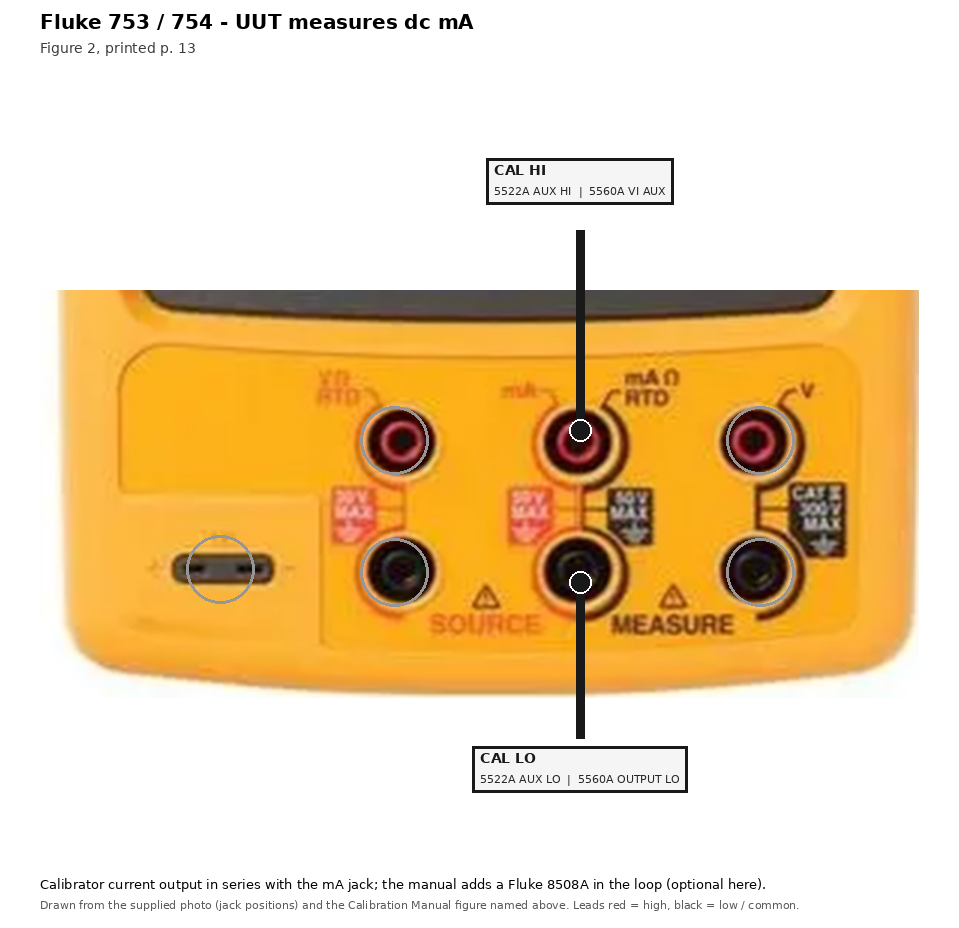
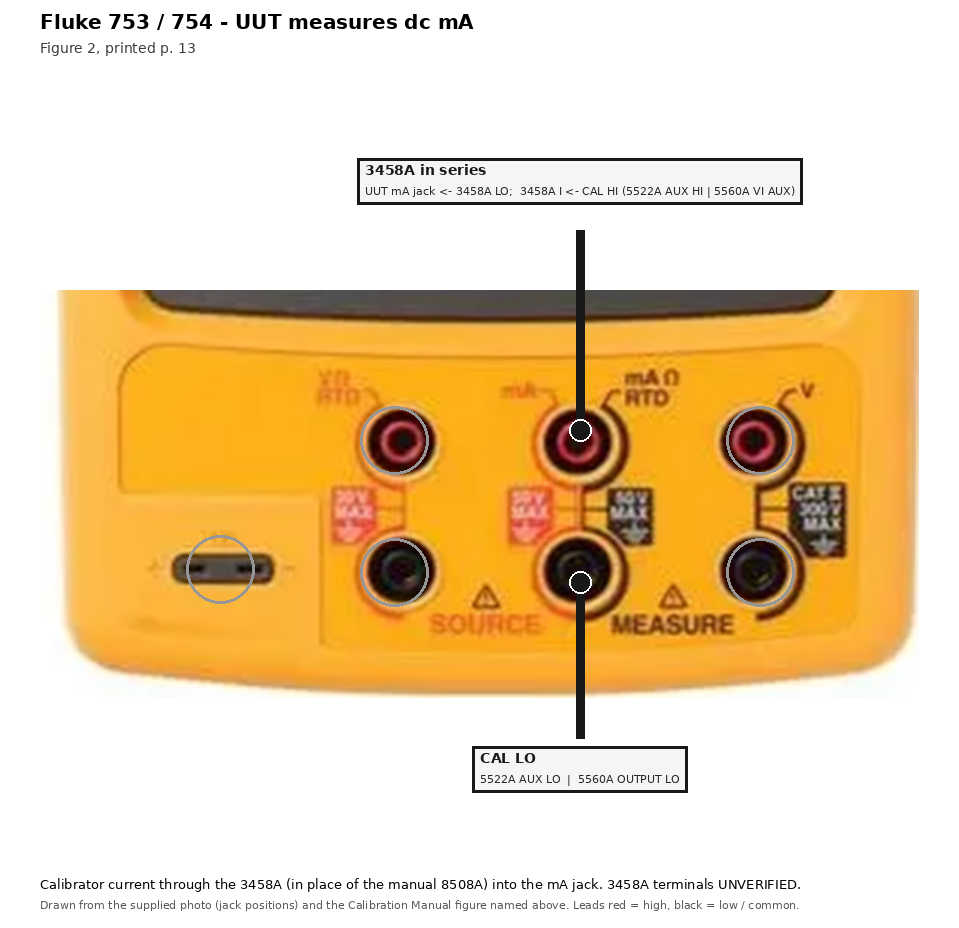
753/754: dc mA points with the 3458A in series (typed, recorded, uncertainty from its input sheet), series drawing, tests
Claude-Session: https://claude.ai/code/session_01VmnunfVAogpKCCPBXbw9cZ

Changed region(s): [[0.3629, 0.1562, 0.8467, 0.2188], [0.1512, 0.9375, 0.8165, 0.9688]]

diff --git a/fluke_753_754.py b/fluke_753_754.py
@@ -40,6 +40,17 @@ def is_source(p):
     return p.get('direction') == 'source'
 
 
+def is_series(p):
+    """True for a DC mA MEASURE point (Table 5): the manual puts a reference meter in series with the calibrator and the UUT (an 8508A); the owner's choice is the Keysight 3458A
+    in series, its reading TYPED (no driver).  The point's uncertainty is then that of the series meter (its 'input' sheet), not the calibrator's alone."""
+    return bool(p.get('series_ref')) and not is_source(p)
+
+
+def uses_input_sheet(p):
+    """True when a measuring standard (3458A / 34461A / 34465A, 'input' sheet) gives the point's uncertainty: a UUT OUTPUT point, or a series-metered dc mA point."""
+    return is_source(p) or is_series(p)
+
+
 def is_rtd(p):
     return bool(p.get('rtd')) and not is_source(p)
 
@@ -47,7 +58,7 @@ def is_rtd(p):
 def unc_direction(p):
     """Direction of the standard-sheet row that gives the point's uncertainty: a UUT OUTPUT point is measured by the multimeter standard (its 'input' row);
     a UUT input point is sourced by the calibrator (its 'output' row).  None for a point with no uncertainty (HART)."""
-    if is_source(p):
+    if uses_input_sheet(p):
         return 'input'
     return 'output' if p.get('applied') else None
 
@@ -65,9 +76,21 @@ def have_standard(model):
 
 def source_request(p):
     """(kind, nominal, unit, frequency) the measuring standard reads at a source point (the value the UUT is set to output)."""
-    u = p['uut']
+    u = p.get('uut') or p['series_ref']
     unit = {'DCV': 'V', 'DCI': 'A', 'OHM': 'ohm', 'FREQ': 'Hz'}[u['kind']]
     return ('OHM4' if u['kind'] == 'OHM' else u['kind']), float(u['value']), unit, (u.get('frequency') if u['kind'] == 'FREQ' else None)
+
+
+SERIES_ACCEPT = ('Type the reading of the Keysight 3458A in series with the UUT (dc current), in the unit shown.  It is recorded with the point; it is NOT compared with the limits. '
+                 'The limits judge the UUT display, which you type in the next window.')
+
+
+def series_validate(text):
+    """The 3458A reading must be a number (nothing else is checked)."""
+    try:
+        Decimal(str(text).strip().replace(',', ''))
+    except Exception:
+        raise ValueError('Type the 3458A reading as a number.')
 
 
 def freq_budget(p, calibrator):
@@ -101,6 +124,7 @@ class App(handheld_dmm.App):
 
     # ------------------------------------------------------------------ the measuring-standard choice (source points)
     def __init__(self, *a, **kw):
+        self.series_read = {}                                     # {point id: the 3458A series reading, as typed}: recorded with the dc mA measure points, never judged (the UUT display is)
         self.unc_choice = {}                                      # {point id: measuring standard model} the owner picked; the default is DEFAULT_UNC_STANDARD
         self._unc_cache = {}
         super().__init__(*a, **kw)
@@ -149,7 +173,7 @@ class App(handheld_dmm.App):
     def tree_menu_extras(self, pid):
         """Right-click entries on a source point: the measuring standard of its uncertainty (the existing per-point 'Uncertainty standard' choice)."""
         p = self.by_id.get(pid) or self.by_id.get(str(pid))
-        if p is None or not is_source(p) or not self.has_uncertainty(p):
+        if p is None or not uses_input_sheet(p) or not self.has_uncertainty(p):
             return []
         if self.demo:
             return [('Uncertainty standard...', lambda: None, False, 'A demo run prints no uncertainty.')]
@@ -167,25 +191,52 @@ class App(handheld_dmm.App):
         d = super().save_fields()
         if self.unc_choice:
             d['unc_choice'] = dict(self.unc_choice)             # recorded with the run: the measuring standard picked for a point's uncertainty
+        if self.series_read:
+            d['series_read'] = dict(self.series_read)           # the typed 3458A-in-series readings of the dc mA measure points
         return d
 
     def load_results(self, data):
         super().load_results(data)
         picked = data.get('unc_choice')
         self.unc_choice = {str(k): v for k, v in picked.items() if isinstance(v, str) and v} if isinstance(picked, dict) else {}
+        ser = data.get('series_read')
+        self.series_read = {str(k): v for k, v in ser.items() if isinstance(v, str)} if isinstance(ser, dict) else {}
+
+    # ------------------------------------------------------------------ the 3458A in series (dc mA measure points)
+    def _ask(self, points, i, p, key):
+        """A dc mA measure point (Table 5) first asks for the reading of the 3458A in series (typed, no driver; recorded, NOT judged), then the usual UUT display window.
+        Pass / fail is exactly the engine's: the UUT display against the printed limits."""
+        if is_series(p) and p.get('test') == 'numeric' and not (self.use_ir and p.get('ir')):
+            r = handheld_dmm.ask_reading(self.root, p, len(self.points), handheld_dmm.output_text(p), self._out_note(p, True), SERIES_ACCEPT, 'numeric',
+                                         unit=p['display_unit'], annunciator=False, validate=series_validate, phase='3458A in series',
+                                         device='3458A IN SERIES', source='CALIBRATOR OUTPUT', **self._fill_series(p))
+            if r['action'] == 'stop':
+                self.stop = True
+                if self.io and not self.manual_cal:
+                    self.io.standby()
+                port.after(self.root, 30, lambda: self._next(points, i + 1, key))
+                return
+            if r['action'] == 'record':
+                self.series_read[str(p['id'])] = handheld_dmm.pad_reading(p, r['text'])
+        super()._ask(points, i, p, key)
+
+    def _fill_series(self, p):
+        if not self.virtual:
+            return {}
+        return dict(demo_fill=lambda: f'{p["nominal"] / p["factor"]:.4f}')
 
     # ------------------------------------------------------------------ the uncertainty of one point
     @staticmethod
     def has_uncertainty(p):
         """Points that should carry an uncertainty: the engine's rule for a UUT input point (a calibrator source), and for a UUT OUTPUT point a numeric reading of a
         DC volts / DC current / resistance / frequency standard (the measuring standard's input sheet).  HART: none."""
-        if is_source(p):
-            return p.get('test') == 'numeric' and not p.get('no_uncertainty') and (p.get('uut') or {}).get('kind') in SOURCE_KINDS
+        if uses_input_sheet(p):
+            return p.get('test') == 'numeric' and not p.get('no_uncertainty') and (p.get('uut') or p.get('series_ref') or {}).get('kind') in SOURCE_KINDS
         return handheld_dmm.App.has_uncertainty(p)
 
     def _budget(self, p):
         """(Budget or None, standard model or None, direction) of point p."""
-        if is_source(p):
+        if uses_input_sheet(p):
             m = self.unc_standard_of(p)
             return self._source_budget(p, m), m, 'input'
         cal = self.calibrator_model()
@@ -203,7 +254,7 @@ class App(handheld_dmm.App):
                     and not p.get('no_uncertainty') and self.calibrator_model())
 
     def _custom(self, p):
-        return p.get('test') == 'numeric' and (is_source(p) or is_rtd(p) or self._freq_from_calibrator(p))
+        return p.get('test') == 'numeric' and (uses_input_sheet(p) or is_rtd(p) or self._freq_from_calibrator(p))
 
     def uncertainty_text(self, p):
         import uncertainty
@@ -226,6 +277,9 @@ class App(handheld_dmm.App):
         row = super().certificate_row(dict(p, no_uncertainty=True), r)              # the engine's own row, with its own uncertainty step skipped
         row['Description'] = report_pdf.ascii_unit(row.get('Description', ''))
         row['Uncertainty'] = self.uncertainty_text(p) if self.has_uncertainty(p) else ''
+        ref = self.series_read.get(str(p['id']))
+        if is_series(p) and ref:
+            row['Description'] += f' (3458A in series read {ref} {p["display_unit"]})'
         return row
 
     def certificate_fields(self, p):
@@ -274,10 +328,10 @@ class App(handheld_dmm.App):
         note = super().source_note()
         used = {}
         for p in self.points:
-            if is_source(p) and self.has_uncertainty(p) and (str(p['id']) in self.found or str(p['id']) in self.left):
+            if uses_input_sheet(p) and self.has_uncertainty(p) and (str(p['id']) in self.found or str(p['id']) in self.left):
                 used[self.unc_standard_of(p)] = used.get(self.unc_standard_of(p), 0) + 1
         if used:
-            note = ' '.join(x for x in (note, 'UUT output points (read on an external instrument and typed in): the uncertainty is that of the measuring standard named here, its input-direction '
+            note = ' '.join(x for x in (note, 'UUT output points (read on an external instrument and typed in) and the dc mA measure points (3458A in series, its reading typed in): the uncertainty is that of the measuring standard named here, its input-direction '
                                                'specification divided by its coverage divisor, with the laboratory Measure CMC as the floor: ' +
                                                ', '.join(f'{m} ({n} point(s))' for m, n in sorted(used.items())) + '.') if x)
         return note

diff --git a/tests/test_fluke_753_754_points.py b/tests/test_fluke_753_754_points.py
@@ -312,7 +312,7 @@ class UncertaintyByDirection(unittest.TestCase):
         import uncertainty_budget as ub
         n = 0
         for p in self.app.points:
-            if p.get('direction') != 'measure':
+            if p.get('direction') != 'measure' or F.is_series(p):
                 continue
             self.assertEqual(F.unc_direction(p), 'output')
             a = p['applied']
@@ -327,7 +327,32 @@ class UncertaintyByDirection(unittest.TestCase):
             self.assertIsNotNone(b.hit, f'{p["id"]}: no sheet row')
             self.assertEqual(b.hit.row['direction'], 'output', p['id'])
             n += 1
-        self.assertEqual(n, 55)                           # 14 + 12 + 7 + 8 + 5 + 3 + 3 + 3
+        self.assertEqual(n, 48)                           # 14 + 12 + 8 + 5 + 3 + 3 + 3  (the 7 dc mA points use the 3458A in series: next test)
+
+    def test_dc_ma_measure_points_take_the_series_3458a_input_sheet(self):
+        """Owner decision 2026-10-26: the 3458A in series replaces the manual's 8508A; the uncertainty is its dc-current INPUT row, and the printed limits are unchanged."""
+        import json
+        with open('specs/' + SPEC_NAME, encoding='utf-8') as fh:
+            raw = {s['id']: s for s in json.load(fh)['steps']}
+        pts = [p for p in self.app.points if F.is_series(p)]
+        self.assertEqual([p['id'] for p in pts], ['5-1', '5-2', '5-3', '5-4', '5-5', '5-6', '5-7'])
+        for p in pts:
+            self.assertEqual(F.unc_direction(p), 'input')
+            b, model, direction = self.app._budget(p)
+            self.assertEqual((model, direction), ('3458A', 'input'))
+            self.assertEqual(b.hit.row['direction'], 'input')
+            self.assertEqual(p['kind'], 'DCI')
+            self.assertEqual(self.app.unc_options(p), ['3458A', '34461A', '34465A'])
+            self.assertEqual((p['low'], p['high']), (raw[p['id']]['low'], raw[p['id']]['high']))
+
+    def test_series_reading_validator_and_progress_record(self):
+        p = next(q for q in self.app.points if F.is_series(q))
+        self.assertIn('3458A', F.SERIES_ACCEPT)
+        with self.assertRaises(ValueError):
+            F.series_validate('abc')
+        F.series_validate('4.0012')
+        self.app.series_read[str(p['id'])] = '4.001'
+        self.assertEqual(self.app.save_fields()['series_read'], {str(p['id']): '4.001'})
 
     def test_the_two_directions_use_different_rows(self):
         """The same quantity read both ways must not give the same sheet row (DC volts: 3458A input row vs 5522A output row)."""
@@ -442,9 +467,49 @@ class EndToEnd(unittest.TestCase):
 
     def test_reading_windows_say_which_instrument_is_read(self):
         app, io = self.run_perfect('753')
-        devs = {d[1]: d[3] for d in self.hn.dialogs if d[0] == 'reading'}
+        devs = {}
+        for d in self.hn.dialogs:
+            if d[0] == 'reading':
+                devs.setdefault(d[1], []).append(d[3])
         for p in app.points:
-            self.assertEqual(devs[p['id']], 'EXTERNAL MEASURING INSTRUMENT' if p['direction'] == 'source' else 'UUT DISPLAY', p['id'])
+            if F.is_series(p):
+                self.assertEqual(devs[p['id']], ['3458A IN SERIES', 'UUT DISPLAY'], p['id'])          # the typed series reading first, then the UUT display
+            else:
+                self.assertEqual(devs[p['id']], ['EXTERNAL MEASURING INSTRUMENT' if p['direction'] == 'source' else 'UUT DISPLAY'], p['id'])
+
+    def _series_run(self, series_text, uut_text):
+        app, io = self.make('753')
+        calls = {}
+
+        def reading(p):
+            if F.is_series(p):
+                calls[p['id']] = calls.get(p['id'], 0) + 1
+                return series_text(p) if calls[p['id']] == 1 else uut_text(p)
+            return H.typed_nominal(p)
+        self.hn.default_reading = reading
+        self.assertTrue(self.hn.run_all())
+        return app
+
+    def test_series_reading_is_recorded_but_only_the_uut_display_is_judged(self):
+        app = self._series_run(lambda p: '9.9999', H.typed_nominal)            # the 3458A is far off, the UUT display is perfect
+        for p in app.points:
+            if F.is_series(p):
+                self.assertEqual(app.found[str(p['id'])]['result'], 'PASS', p['id'])
+                self.assertEqual(app.series_read[str(p['id'])], '9.9999')
+        app.hn = None
+        self.hn.stop(); self.hn = H.Harness().start()
+        app = self._series_run(H.typed_nominal, lambda p: H.typed_nominal(p, 1.0))   # the UUT display is 1 mA out, the 3458A is perfect
+        for p in app.points:
+            if F.is_series(p):
+                self.assertEqual(app.found[str(p['id'])]['result'], 'FAIL', p['id'])
+        self.assertEqual({app.found[str(p['id'])]['result'] for p in app.points if not F.is_series(p)}, {'PASS'})
+
+    def test_report_row_names_the_series_reading(self):
+        app = self._series_run(lambda p: H.typed_nominal(p, 0.001), H.typed_nominal)
+        p = next(q for q in app.points if F.is_series(q))
+        row = app.certificate_row(p, app.found[str(p['id'])])
+        self.assertIn('3458A in series read', row['Description'])
+        self.assertTrue(row['Uncertainty'])
 
     def test_wire_log_no_calibrator_output_for_uut_output_points(self):
         app, io = self.run_perfect('754')
@@ -542,7 +607,7 @@ class EndToEnd(unittest.TestCase):
         self.assertIn('(UUT output)', text)
         note = app.source_note()
         self.assertIn('misprint', note.lower())
-        self.assertIn('3458A (35 point(s))', note)
+        self.assertIn('3458A (42 point(s))', note)               # 35 UUT output points + the 7 dc mA points with the 3458A in series
 
     def test_demo_is_marked_and_never_real(self):
         for meter in MODELS:

diff --git a/specs/build_fluke_753_754_spec.py b/specs/build_fluke_753_754_spec.py
@@ -355,8 +355,11 @@ def build_steps():
                 if table == '4':
                     notes.append('Let the output become stable before the reading (printed p. 12).')
                 if table == '5':
-                    notes.append('The manual puts a Fluke 8508A in series (Figure 2) and has you edit the 5522A output until the 8508A shows the correct value (printed p. 13). The program sets the calibrator to the nominal and does NOT '
-                                 'read or correct with the 8508A (UNVERIFIED: owner decision). Disconnect the jumpers on the three common jacks of the UUT if present.')
+                    step['series_ref'] = dict(kind='DCI', value=a_val)          # owner decision 2026-10-26: the Keysight 3458A in series replaces the manual's 8508A; its typed reading, its 'input' sheet
+                    notes.append('The manual puts a Fluke 8508A in series (Figure 2) and has you edit the 5522A output until the 8508A shows the correct value (printed p. 13). Owner decision: the Keysight 3458A (dc current) '
+                                 'is in series instead. First window: TYPE the 3458A reading (recorded, not judged). Second window: TYPE the UUT display; ONLY the UUT display is compared with the printed limits '
+                                 '(unchanged). The program sets the calibrator to the nominal and sends nothing else: if the 3458A is not at the nominal, adjust the 5522A output on its front panel as the manual does '
+                                 '(UNVERIFIED front-panel step). The uncertainty is the 3458A dc-current specification (input sheet), not the calibrator alone. Disconnect the jumpers on the three common jacks of the UUT if present.')
                 if table == '6':
                     notes.append('Four-wire connection at the 5522A, two wires at the UUT, two-wire compensation ON at the calibrator (printed p. 15, Figure 3): the program does not set the compensation; set it on the front panel (UNVERIFIED command).')
                 if table == '7':
@@ -419,8 +422,8 @@ def groups():
                                      ('UUT', 'Set the UUT to the function and range of the point (the point window says which); lock the range with the Range softkey.')]),
                        caution='Up to 295 V is applied. Use CAT-rated leads and keep clear of the plugs whenever the output is on. Do not force a dual banana plug into two jacks horizontally (printed p. 10).',
                        diagram='diagrams/hook_fluke753_MEAS_V.png'),
-        'MEAS_MA': dict(title='Change the cables: UUT measures dc mA', summary=f'{cal} AUX HI -> 8508A (series, optional) -> UUT mA jack; UUT MEASURE common -> AUX LO (Figure 2).',
-                        steps=common([('Calibrator', 'Calibrator current output (5522A AUX HI / AUX LO) in series with the UUT mA jack (mA Omega RTD, middle top) and the common jack below it (Figure 2). The manual puts an 8508A in series; it is optional here.'),
+        'MEAS_MA': dict(title='Change the cables: UUT measures dc mA', summary=f'{cal} AUX HI -> 3458A (series, reading typed) -> UUT mA jack; UUT MEASURE common -> AUX LO (Figure 2).',
+                        steps=common([('Calibrator', 'Calibrator current output (5522A AUX HI / AUX LO) in series with the UUT mA jack (mA Omega RTD, middle top) and the common jack below it (Figure 2). The manual puts an 8508A in series; here the Keysight 3458A (dc current: calibrator AUX HI to the 3458A I terminal, the 3458A LO terminal to the UUT mA jack; terminals UNVERIFIED) is in series and its reading is typed.'),
                                       ('UUT', 'Disconnect the jumpers on the three common jacks if present (printed p. 13). Set the UUT to dc current, lock the range (30 mA, then 100 mA).')]),
                         caution=None, diagram='diagrams/hook_fluke753_MEAS_MA.png'),
         'MEAS_OHM': dict(title='Change the cables: UUT measures resistance', summary=f'{cal} four-wire output, two-wire at the UUT (both HI leads on the UUT mA Omega RTD jack, both LO leads on the jack below it), two-wire compensation ON (Figure 3).',

diff --git a/specs/build_hookups_753.py b/specs/build_hookups_753.py
@@ -45,7 +45,7 @@ GROUPS = {
     'MEAS_V': ('UUT measures dc / ac volts and frequency', 'Figures 1 and 4, printed pp. 11 and 16',
                [('tr', RED, CAL['V']), ('br', BLACK, CAL['V0'])], [], 'Calibrator output to the MEASURE side V jack and its common.'),
     'MEAS_MA': ('UUT measures dc mA', 'Figure 2, printed p. 13',
-                [('tm', BLACK, CAL['I']), ('bm', BLACK, CAL['I0'])], [], 'Calibrator current output in series with the mA jack; the manual adds a Fluke 8508A in the loop (optional here).'),
+                [('tm', BLACK, ('3458A in series', 'UUT mA jack <- 3458A LO;  3458A I <- CAL HI (5522A AUX HI | 5560A VI AUX)')), ('bm', BLACK, CAL['I0'])], [], 'Calibrator current through the 3458A (in place of the manual 8508A) into the mA jack. 3458A terminals UNVERIFIED.'),
     'MEAS_OHM': ('UUT measures resistance', 'Figure 3, printed p. 15',
                  [('tm', RED, CAL['V']), ('tm', RED, CAL['S']), ('bm', BLACK, CAL['V0']), ('bm', BLACK, CAL['S0'])], [], 'Four-wire at the calibrator, two-wire at the UUT: both HI leads on the mA Ω RTD jack, both LO leads on the common below it; calibrator 2-wire compensation ON.'),
     'MEAS_TC': ('UUT measures a Type K thermocouple', 'Figure 10, printed p. 24 (the manual uses dc mV through a lag bath)',

diff --git a/NOTES.md b/NOTES.md
@@ -1991,8 +1991,9 @@ WaveSurfer (every section grid, while that section runs its points in turn; not 
 - RTD measure points (Tables 15 / 16): the calibrator sources the resistance equivalent the manual prints (27.096 / 138.505 / 369.712 ohm; the program has no RTD output command); the UNCERTAINTY is the calibrator's Pt 385 (100 ohm) simulation specification in degC against the scope's `Pt385-100` line (`uncertainty_budget.build(kind='TEMP', tc='Pt385-100', variant='Pt 385, 100 Ohm')`; the new optional `tc` / `variant` arguments default to Type K, so every other engine is unchanged).
 - THERMOCOUPLE: the manual verifies Type K only (Tables 13 and 14); every temperature point is Type K (`tc: K`, sent as TC_TYPE K). The other types of the specification table (E N J T B R S C L U ...) are in no verification table and are not used. DEVIATION: the manual's Table 13 method (dc mV through a lag bath, Figure 10) is replaced by the calibrator's Type K simulation at -180 / 0 / 1300 C (same limits; the mV equivalents are kept in the step). Table 14 (UUT sources Type K, DMM reads mV): the technician adds the lag-bath millivolts (Table 13 chart) and types the corrected value.
 - Printed oddities (limits never changed silently): Table 3 30 V row prints a 1-year maximum of 29.9870 (below the minimum 29.9935); used 30.0065 (symmetric like its neighbours), visible in the step note and the report note, UNVERIFIED against a second source. Table 4's last 300 V row is 50 Hz (the others 40 / 500 Hz), kept as printed. Table 8's first two ranges print no unit (mV inferred). Tables 15 / 16 print a negative range high first. The text before Table 12 says "Table 11". The text of the Simulate Transmitter step 7 says 22 mA, Table 10 prints 21 mA (table used). The specification has no 100 mV dc range row (limits follow 0.02 % + 0.005 mV).
-- Not done by the program (the manual does it): the 8508A in series for the DC mA points (the 5522A at +-100 mA has a TAR of 0.75:1 against the +-0.03 mA limit; the manual corrects with the 8508A), two-wire / four-wire compensation on the calibrator (set on its front panel; the program sends no command), the Fluke 123 waveform check of the frequency source, the lag-bath temperature.
-- Ratios below 2:1 (the report prints them, nothing is hidden): DC mA +-100 mA (Table 5, TAR 0.7:1 / TUR 0.9:1 with the 5522A: the manual puts the 8508A in series), four-wire RTD at 100 C and 780 C (Table 15: TAR 0.7:1 and 0.9:1 with the 5522A's Pt 385 specification), Frequency Source at 1 kHz and 49 kHz (Table 12: 1.0:1 with the 3458A frequency specification; the manual uses a counter), Type K measure 1300 C (TAR 2.2:1).
+- Not done by the program (the manual does it): the calibrator-output correction of the DC mA points (the manual edits the 5522A output until the 8508A shows the nominal; the program sets the nominal and sends nothing else - adjust on the front panel, UNVERIFIED), two-wire / four-wire compensation on the calibrator (set on its front panel; the program sends no command), the Fluke 123 waveform check of the frequency source, the lag-bath temperature.
+- DC mA MEASURE points (Table 5), owner decision 2026-10-26: the Keysight 3458A (dc current) is in SERIES instead of the manual's 8508A. Two typed windows per point, no driver: (1) '3458A IN SERIES': the 3458A reading, recorded in the progress file (`series_read`) and named in the report Description, NOT judged; (2) 'UUT DISPLAY': the UUT display, judged against the PRINTED limits exactly as before (limits and pass / fail unchanged). The program sets the calibrator to the nominal and sends nothing else. Uncertainty / TAR / TUR: the series meter's dc-current 'input' row (3458A default, 34461A / 34465A selectable per point), not the calibrator alone. The 3458A terminals of the drawing (3458A I from CAL HI, 3458A LO to the UUT mA jack) are UNVERIFIED.
+- Ratios below 2:1 (the report prints them, nothing is hidden): DC mA +-100 mA (Table 5; TAR 0.7:1 with the 5522A alone, 7.5:1 with the 3458A in series, see the next entry), four-wire RTD at 100 C and 780 C (Table 15: TAR 0.7:1 and 0.9:1 with the 5522A's Pt 385 specification), Frequency Source (Table 12; 3458A: 1.0:1 at 1 kHz and 49 kHz, 2.0:1 at 10 kHz; the manual uses a counter; owner 2026-10-26: the 3458A is accepted), Type K measure 1300 C (TAR 2.2:1).
 - UNVERIFIED: the 5522A RTD / compensation commands (not used), the 0 ohm output on a real 5522A, the front-panel softkey names of the UUT, the jack lead assignment of Figure 3 / 11 / 12 (black leads) and Figure 7 (lead colours), the 3458A frequency input specification as the "measuring standard" of a frequency output (the manual uses a Tektronix FCA3000 counter: TUR about 1:1 at 49 kHz with the 3458A sheet), the 34461A / 34465A sheets (not built on this branch).
 - Hook-ups: the owner's photos `diagrams/fluke_753_754_front.png` / `fluke_753_754_terminals.png` (reference pictures, `hookups.METERS['fluke753']['panels']`); per-group drawings `diagrams/hook_fluke753_<GROUP>.png` drawn by `specs/build_hookups_753.py` from the terminal photo and the manual's figures (see `diagrams/README_fluke753.txt`).
 
